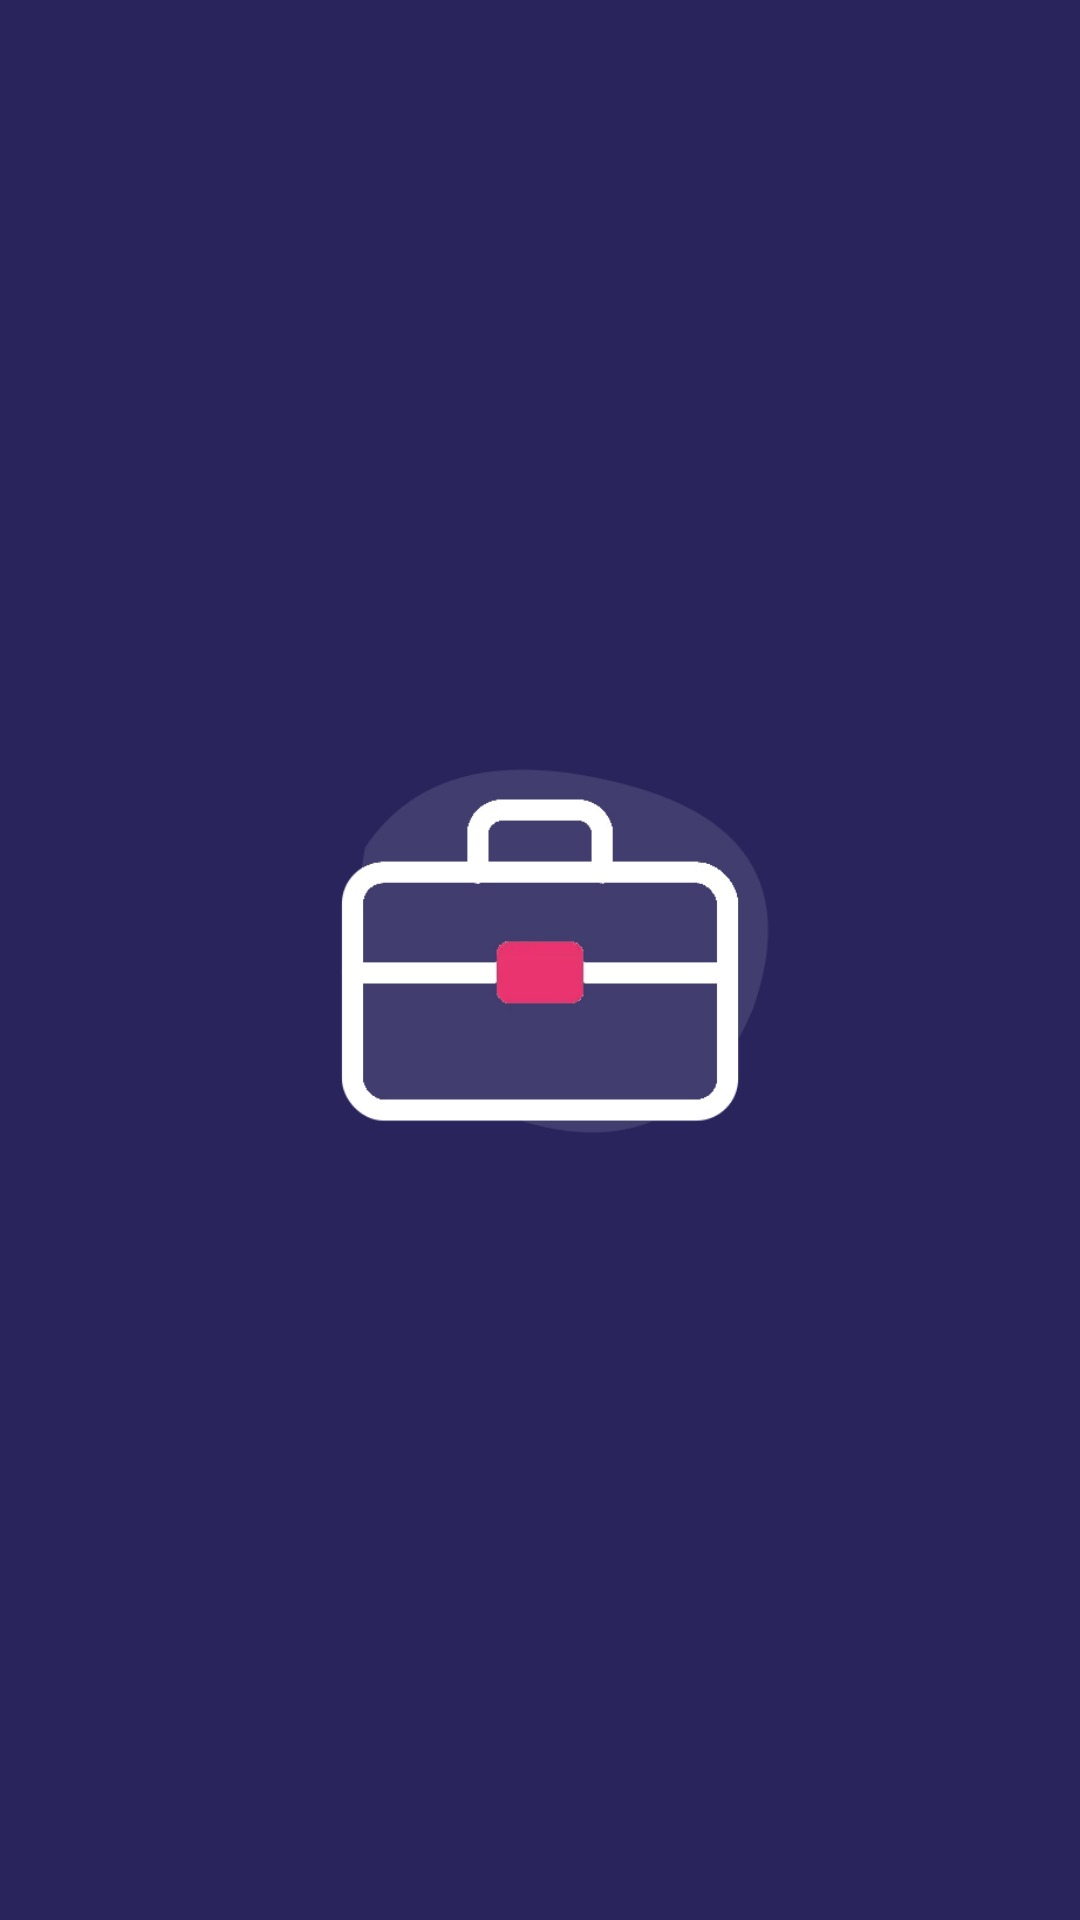
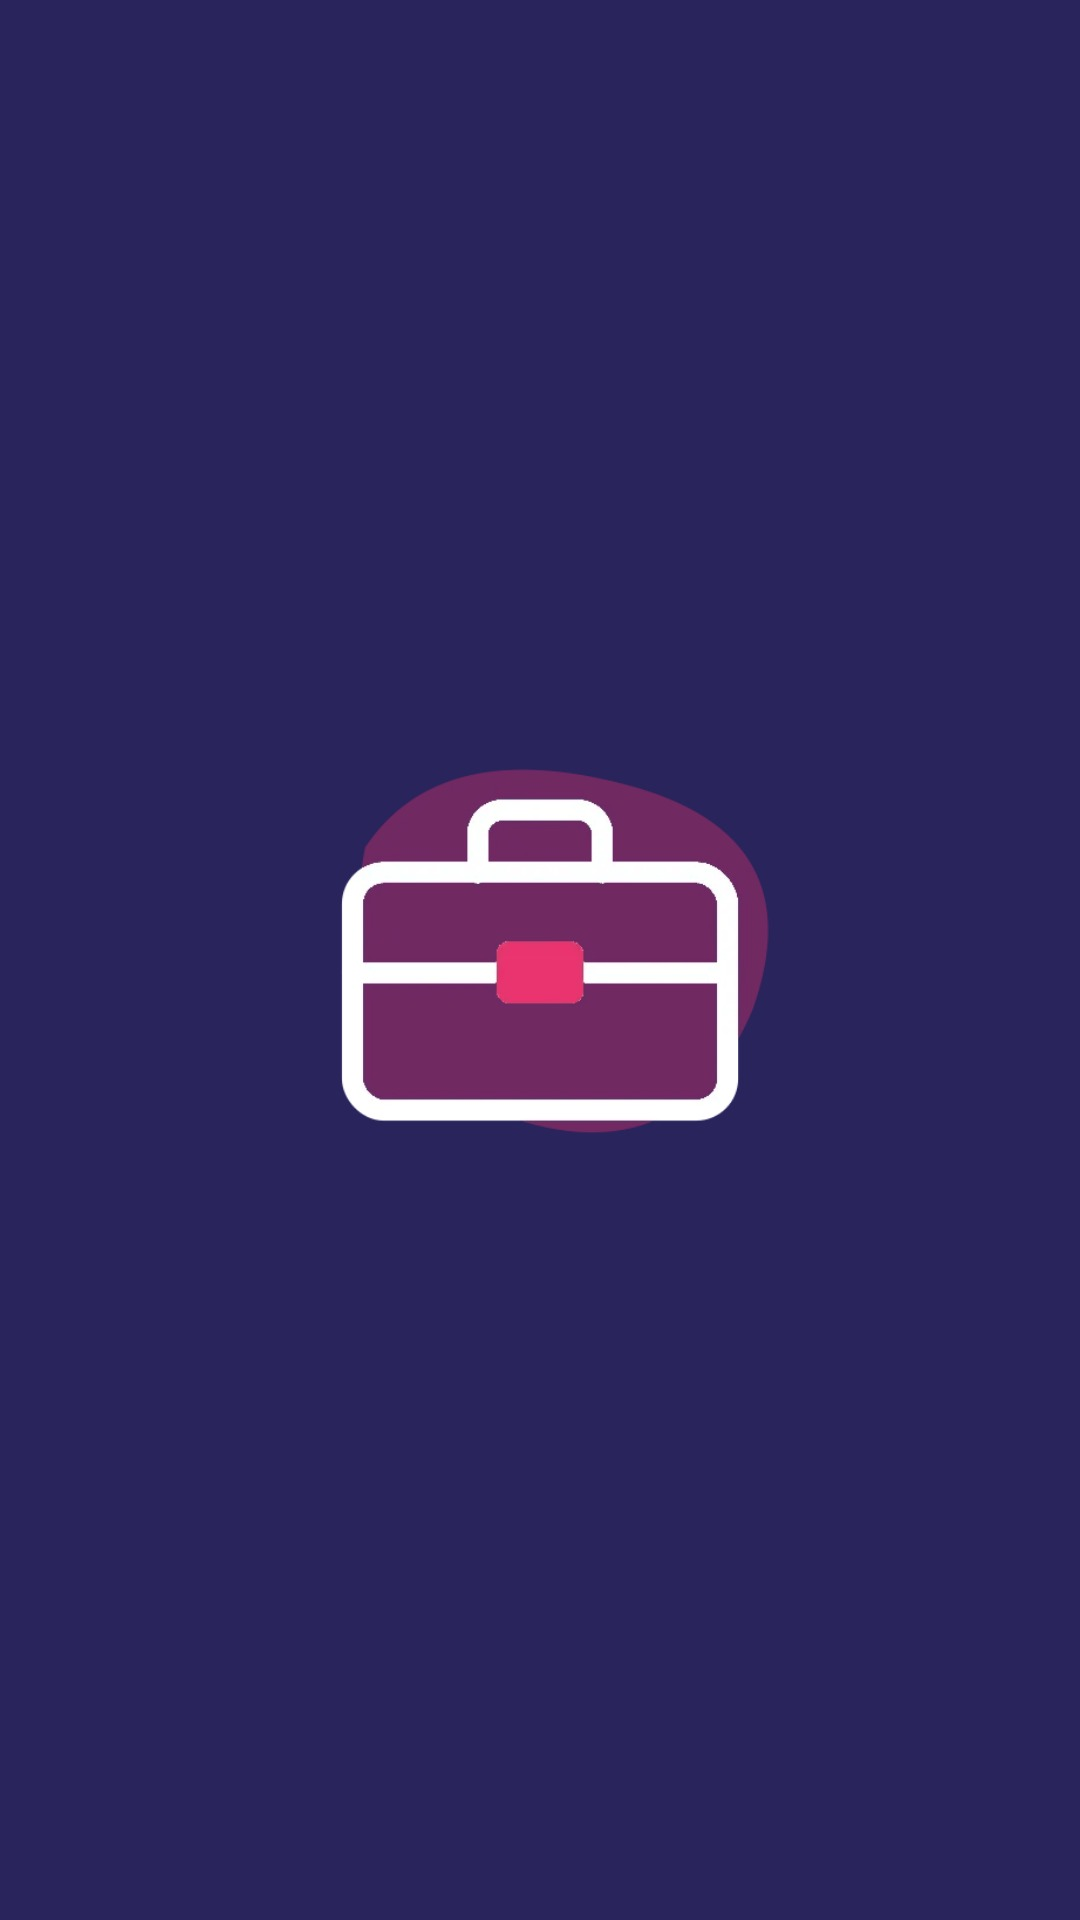
Couvertures : tache rose visible sur fond bleu
Claude-Session: https://claude.ai/code/session_01NBGakcBRwoq7RKRswmKrSM

Changed region(s): [[0.3361, 0.375, 0.7333, 0.5938]]

diff --git a/tools/visuels/stories/cover-canada.html b/tools/visuels/stories/cover-canada.html
@@ -1,6 +1,6 @@
 <html><head><link rel=stylesheet href=base.css></head><body><div style="width:1080px;height:1920px;background:#29245c;display:grid;place-items:center">
 <svg width="600" height="600" viewBox="0 0 512 512">
-<path d="M150 120 C 230 40, 400 70, 410 190 C 420 300, 330 430, 220 410 C 110 390, 70 200, 150 120 Z" fill="#ffffff" fill-opacity="0.12"/>
+<path d="M150 120 C 230 40, 400 70, 410 190 C 420 300, 330 430, 220 410 C 110 390, 70 200, 150 120 Z" fill="#ea346f" fill-opacity="0.38"/>
 <path d="M256 470 C 256 470 120 330 120 220 A 136 136 0 0 1 392 220 C 392 330 256 470 256 470 Z" fill="none" stroke="#ffffff" stroke-width="22" stroke-linejoin="round"/>
 <g transform="translate(256 222) scale(2.5) translate(-50 -42)"><path d="M50.0,8.0 L55.5,20.0 L62.0,16.5 L59.5,33.0 L70.0,23.5 L72.0,29.0 L83.0,27.0 L78.0,39.5 L85.0,43.0 L68.5,56.0 L71.0,63.5 L53.5,60.5 L53.5,76.0 L46.5,76.0 L46.5,60.5 L29.0,63.5 L31.5,56.0 L15.0,43.0 L22.0,39.5 L17.0,27.0 L28.0,29.0 L30.0,23.5 L40.5,33.0 L38.0,16.5 L44.5,20.0 Z" fill="#ea346f" stroke="#ea346f" stroke-width="3" stroke-linejoin="round"/></g>
 </svg></div></body></html>
